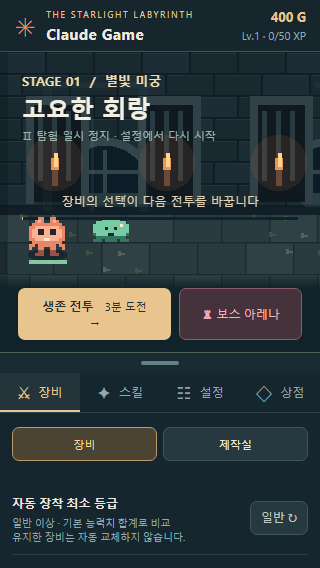
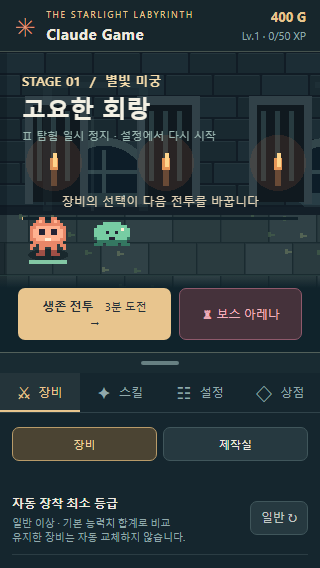
docs: record performance audit and latest release

diff --git a/docs/qa/2026-10-06/design-gap-review.md b/docs/qa/2026-10-06/design-gap-review.md
@@ -20,7 +20,7 @@
 | 배경 공간감 | 구현 보강 | 반복 벽 대비를 낮추고 원경 그래픽을 별도 레이어로 분리해 탐험에서 벽보다 느리게 이동시킴. 전투는 정지 배경 유지. 새 원경 캡처와 실제 기기 성능 확인은 필요 |
 | 위험/HUD 정보 우선순위 | 구현 보강 | 보스 경고 우선, 동급 메시지 합산, status live 안내 적용. 밀집 상황의 실제 플레이 가독성 평가는 남음 |
 | 애니메이션 수명/취소 | 부분 | 감소 모션, 씬 종료 정리, 일부 동시 표시 상한이 있음. 공통 표현 수명/우선순위 정책과 resize·중단·스킵 전 상태 복원 계약은 없음 |
-| 재현/성능 기반 | 부분 | 고정 위험 fixture와 반복 브라우저 시나리오를 확인. 느린 프레임/메모리/실기기 측정은 없음 |
+| 재현/성능 기반 | 부분 | 고정 위험 fixture, 재현 브라우저 시나리오, 1배/4배 CPU profile을 기록. headless 실행에서 대기 약 29/25fps, 전투 약 18/17fps로 낮게 나왔으나 제한 없는 결과도 30fps 수준이라 호스트 주사율과 실제 부하를 분리하지 못함. 실제 기기 측정/프로파일링은 필요 |
 | 아트 스타일 규칙 | 대표 자산 기준 문서화 | 16px 격자, 명암, 윤곽, 위험 표시 원칙을 문서화하고 캐릭터 포즈 시트를 검토. 전체 적/지역 적용은 남음 |
 | 적 역할과 페이싱 | 초기 역할 구현 | 박쥐는 좌우로 흔들며 접근하고 해골은 근거리에서 거리를 둔다. 자동 포즈 비교 통과. 수치 난이도와 전투 강약/공정성은 별도 반복 플레이 평가 필요 |
 | 보상 분포 모델 | 계산 분석 완료 | 등급 롤의 평균/95% 횟수, 확률 드롭 경로, 큐브 확정 합성 비용을 계산. 실제 플레이 시간/재화 공급 실측과 밸런스 조정 결정은 남음 |
@@ -28,16 +28,16 @@
 
 ## 우선순위 권고
 
-1. **P1 — 결과 비교와 저장 복귀 시각검증:** 실제 보상·자동 장착·가방 보관·환산을 조합하고 결과 확인 후 이어하기까지 반복 확인한다.
-2. **P1 — 위험 동시 발생과 우선순위:** 경고가 덮어쓰이는 상황을 정리하고 화면 안전 영역/스크린리더 공지를 하나의 우선순위로 다룬다.
-3. **P1 — 레이어 결과 확인:** 새 시차 배경을 넓은 화면과 320px/390px에서 캡처해 이음매, 움직임 감소, 가독성을 검토한다.
-4. **P2 — 아트 스타일 기준 정식화:** 색 수, 명암 단계, 윤곽, 발 접지, 효과선 두께를 대표 자산 표로 정리하고 나머지 적/지역 자산에 적용한다.
-5. **P2 — 실기기·성능·포털 통합:** 저사양 모바일 프레임, 포털 iframe 실행, 저장 복귀를 확인한다.
-6. **P2+ — 첫 성장 안내, 적 역할, 보상 분포 모델:** 게임 난도/학습/경제를 별도 실험안으로 진행한다.
-7. **P3 — 강한 타격 정지:** 선택적 표현 실험으로 남긴다.
+1. **통과 — 결과 비교와 저장 복귀:** 실제 전투 보상 비교와 새로고침 복원을 자동 시나리오에서 확인했다. 다양한 중복 보상 조합의 사용자 평가는 선택 과제다.
+2. **자동 검증 통과 — 위험 경고 우선순위:** 보스 우선 및 동급 합산과 접근성 공지를 구현했다. 실제 혼잡 전투의 플레이어 이해도 평가는 남는다.
+3. **통과 — 대표 구간 레이아웃과 원경:** 데스크톱·320px·390px와 위험 레이어를 캡처로 확인했다. 이음매/감소 모션 회귀 시나리오는 계속 유지한다.
+4. **부분 — 픽셀 스타일:** 대표 규칙과 캐릭터 시트는 확인했다. 전체 적·지역 자산을 같은 기준으로 정비해야 한다.
+5. **미완료 — 기기 성능:** 포털 iframe은 공개 Chromium에서 통과했다. 저사양 실기기 프레임/메모리 측정이 필요하다.
+6. **부분 — 첫 성장, 적 역할, 보상 분포:** 장비 첫 선택과 역할 이동, 확률/합성 모델은 구현·계산했다. 튜토리얼과 게임 내 경제 실측은 남는다.
+7. **보류 — 강한 타격 정지:** P3 선택 실험으로 유지한다.
 
 ## 배포 상태 메모
 
-최신 변경은 게임 Pages `acdd48d`, 도메인 Pages `925c98b`로 배포했다. 공개 게임과 포털 iframe이 모두 `/claude_game/assets/index-CidQAHNm.js`를 불러오는 것을 확인했다. Chromium 모바일/데스크톱 시나리오, 보스 전투와 복귀, 설정 저장, 포털 iframe 실제 조작이 통과했고 페이지 오류는 0건이다. [배포 검증 보고서](deployment/review.md)와 [결과](deployment/results.json)를 참조한다. 실제 iOS/저사양 기기와 사용자 평가만 별도 측정으로 남는다.
+최신 변경은 게임 Pages `4ef7281`, 도메인 Pages `ae656bc`로 배포했다. 공개 게임과 포털 iframe이 모두 `/claude_game/assets/index-2Rgyv_5u.js`를 불러오는 것을 확인했다. Chromium 모바일/데스크톱 시나리오, 보스 전투와 복귀, 설정 저장, 포털 iframe 실제 조작이 통과했고 페이지 오류는 0건이다. [배포 검증 보고서](deployment/review.md)와 [결과](deployment/results.json)를 참조한다. 실제 기기 성능과 사용자 평가가 남는다.
 
 참조: [게임 Pages 작업](https://github.com/jflakeee/claude_game/actions/runs/37373169826) · [도메인 Pages 작업](https://github.com/jflakeee/hexa_merge_base/actions/runs/37373197368) · [대표 구간 시각 검증](../2026-10-05/redesign/review.md) · [동작/보스 소개 검증](../2026-10-05/motion/review.md).

diff --git a/docs/qa/2026-10-06/implementation-progress.md b/docs/qa/2026-10-06/implementation-progress.md
@@ -22,9 +22,10 @@
 - 단위 테스트 20개 파일, 121개 통과(적 행동 역할과 첫 장비 도움말 포함).
 - Playwright 모션/전투 검증 통과: 보스 소개 정지·건너뛰기, 적별 포즈, 감소 모션, F2 판정 표시, 경고 우선순위/합산, 장비 보상 비교, 저장 복귀 확인. 상세 결과는 [motion results](../2026-10-05/motion/results.json).
 - Playwright 재설계 검증 통과: 첫 장비 안내와 비교 이동, 세트 상실 설명, 장비 잠금/수동 교체, 320px/390px/넓은 화면, 위험 오버레이, 축소 모션 확인. [결과](../2026-10-05/redesign/results.json).
-- Pages 배포 및 공개 검증 통과: 게임 `acdd48d`, 도메인 `925c98b`, 번들 `/claude_game/assets/index-CidQAHNm.js`. 데스크톱/모바일, 보스 전투/복귀, 설정 저장, 포털 iframe과 오류 0건을 확인했다. [결과와 캡처](deployment/results.json).
+- Pages 배포 및 공개 검증 통과: 게임 `4ef7281`, 도메인 `ae656bc`, 번들 `/claude_game/assets/index-2Rgyv_5u.js`. 데스크톱/모바일, 보스 전투/복귀, 설정 저장, 포털 iframe과 오류 0건을 확인했다. [결과와 캡처](deployment/results.json).
+- 탐험 장면 능력치는 저장소 변경 때만 다시 계산하고, 캐릭터 스프라이트는 포즈가 바뀔 때만 텍스처를 교체하도록 최적화했다. Playwright frame audit 수치는 headless 실행 제한과 부하를 분리하지 못해 실제 성능 개선을 주장하지 않는다. [1배](deployment/performance-1x.json) · [4배 제한](deployment/performance-4x.json).
 - 탐험 대표 화면의 원경 변경을 캡처로 확인했다. 초기 원형 고리 장식은 기존 창과 겹쳐 보였고 낮은 대비의 기둥 실루엣으로 수정한 뒤 재캡처했다.
-- 최신 소스 프로덕션 빌드 성공(`dist/assets/index-CidQAHNm.js`, 약 1.56MB), `git diff --check` 통과. 번들 크기 경고와 코드 분할 미적용은 남아 있다.
+- 최신 소스 프로덕션 빌드 성공(`dist/assets/index-2Rgyv_5u.js`, 약 1.56MB), `git diff --check` 통과. 번들 크기 경고와 코드 분할 미적용은 남아 있다.
 
 ## 계속 남는 항목
 

diff --git a/docs/qa/2026-10-06/deployment/review.md b/docs/qa/2026-10-06/deployment/review.md
@@ -1,15 +1,15 @@
 # 재설계 빌드 운영 배포 및 시각 검증
 
-2026-10-06 최신 구현 `c094234` 배포 완료.
+2026-10-06 최신 구현 `957ab50` 배포 완료.
 
-- 게임 Pages: `acdd48d`
-- `fungood.co.kr` 도메인 Pages: `925c98b`
-- 공개 번들: `/claude_game/assets/index-CidQAHNm.js`
+- 게임 Pages: `4ef7281`
+- `fungood.co.kr` 도메인 Pages: `ae656bc`
+- 공개 번들: `/claude_game/assets/index-2Rgyv_5u.js`
 - 게임: https://www.fungood.co.kr/claude_game/
 - 포털: https://www.fungood.co.kr/game_portal/#/play/claude-game
 
 Chromium에서 공개 사이트와 포털 iframe을 직접 열어 확인했다. 데스크톱 준비 화면(1180px), 보스 전투(520px)와 복귀, 모바일 생존 전투(390px), 화면 움직임 설정 저장/복원, 공개 빌드의 개발 훅 제거, 포털 내 게임 로딩/조작이 통과했다. 수집한 페이지 오류는 0건이었다.
 
-실제 iOS 또는 저사양 Android 기기의 프레임/메모리 측정은 이 브라우저 에뮬레이션 결과에 포함되지 않는다.
+4배 CPU 제한의 Chromium profile은 대기 화면 약 25fps, 전투 약 17fps를 보였다. 제한 없음 profile도 약 30fps/18fps였으므로 headless 주사율과 실행환경 영향을 분리하지 못했다. [측정값](performance-1x.json) · [4배 CPU 제한](performance-4x.json). 이 결과는 최적화 완료 근거로 사용하지 않는다. 실제 iOS 또는 저사양 Android 기기의 프레임/메모리 측정과 병목 프로파일링은 남아 있다.
 
 [기계 검증 결과](results.json) · [데스크톱](01-desktop.png) · [보스](02-boss.png) · [모바일](03-mobile.png) · [포털](04-portal.png)
